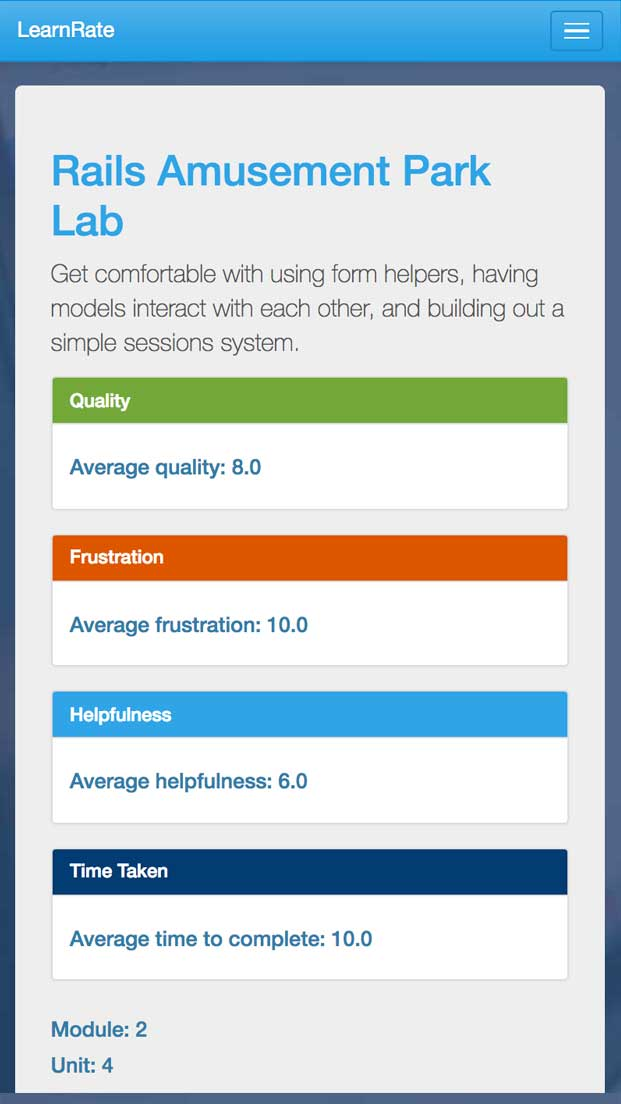
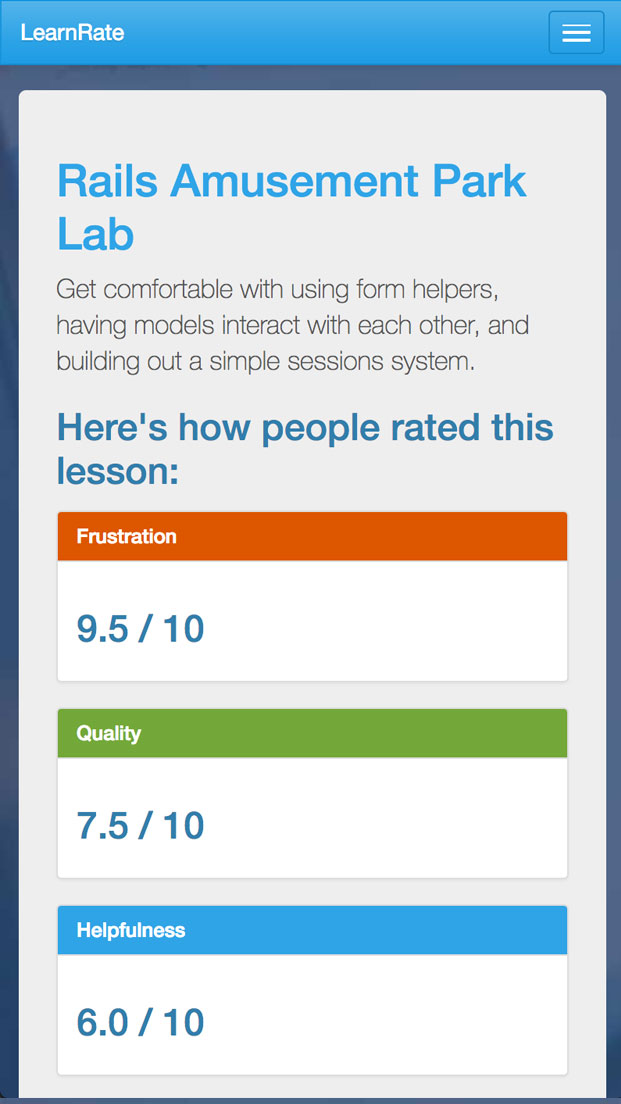
add guide and improve show page

diff --git a/app/models/lesson.rb b/app/models/lesson.rb
@@ -18,19 +18,24 @@ class Lesson < ApplicationRecord
   end
 
   def average_time_taken
-    Rating.where(review: self.reviews).average(:time_taken).to_f
+    time = Rating.where(review: self.reviews).average(:time_taken).to_f.round(0)
+    to_hours_minutes_readout(time)
   end
 
   def average_helpfulness
-    Rating.where(review: self.reviews).average(:helpfulness).to_f
+    Rating.where(review: self.reviews).average(:helpfulness).to_f.round(1)
   end
 
   def average_frustration
-    Rating.where(review: self.reviews).average(:frustration).to_f
+    Rating.where(review: self.reviews).average(:frustration).to_f.round(1)
   end
 
   def average_quality
-    Rating.where(review: self.reviews).average(:quality).to_f
+    Rating.where(review: self.reviews).average(:quality).to_f.round(1)
+  end
+
+  def to_hours_minutes_readout(time)
+    "#{time/60} Hours #{time%60} Minutes"
   end
 
 end

diff --git a/app/models/rating.rb b/app/models/rating.rb
@@ -2,9 +2,21 @@ class Rating < ApplicationRecord
 
   belongs_to :review
   # has_one :user, through: :review
-  include RatingsHelper
 
   attr_accessor :time_taken_minutes, :time_taken_hours
+
+  def to_hours_minutes
+    "#{to_only_hours}H #{to_only_minutes}M"
+  end
+
+  def to_only_hours
+    self.time_taken / 60
+  end
+
+  def to_only_minutes
+    self.time_taken % 60
+  end
+
 
   def hours_minutes_to_minutes
     self.time_taken_minutes.to_i + (self.time_taken_hours.to_i * 60)

diff --git a/app/helpers/ratings_helper.rb b/app/helpers/ratings_helper.rb
@@ -1,15 +1,5 @@
 module RatingsHelper
 
-  def to_hours_minutes
-    "#{to_only_hours}H #{to_only_minutes}M"
-  end
-
-  def to_only_hours
-    self.time_taken / 60
-  end
-
-  def to_only_minutes
-    self.time_taken % 60
-  end
+  
 
 end
